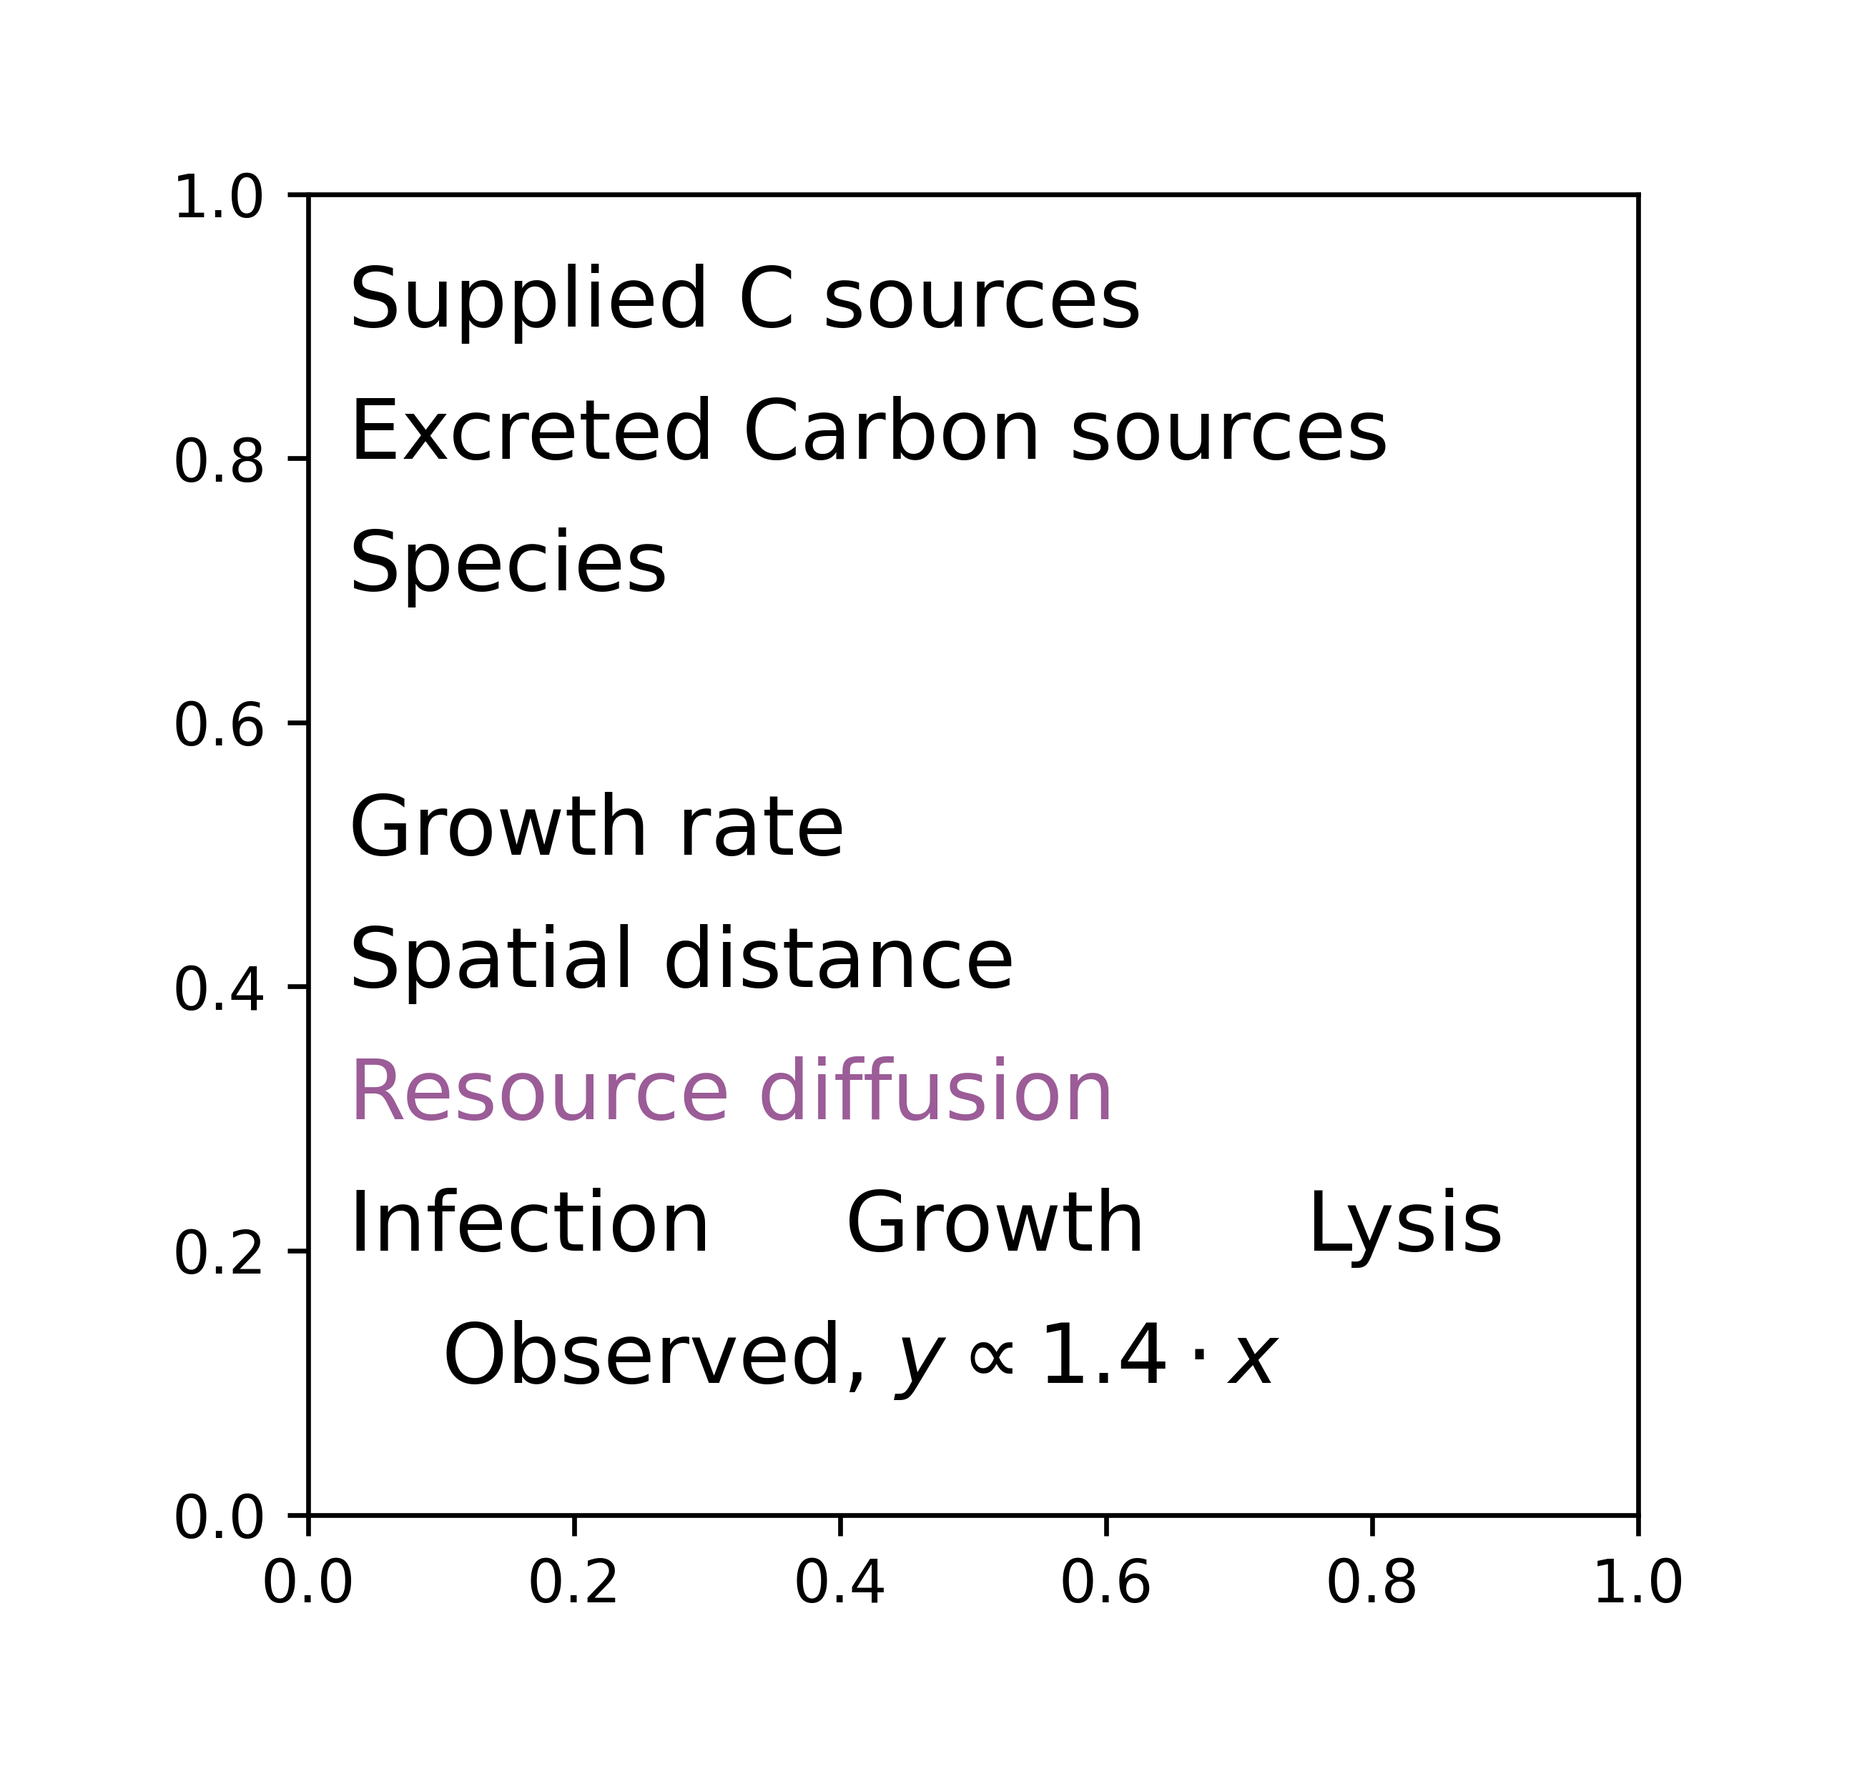
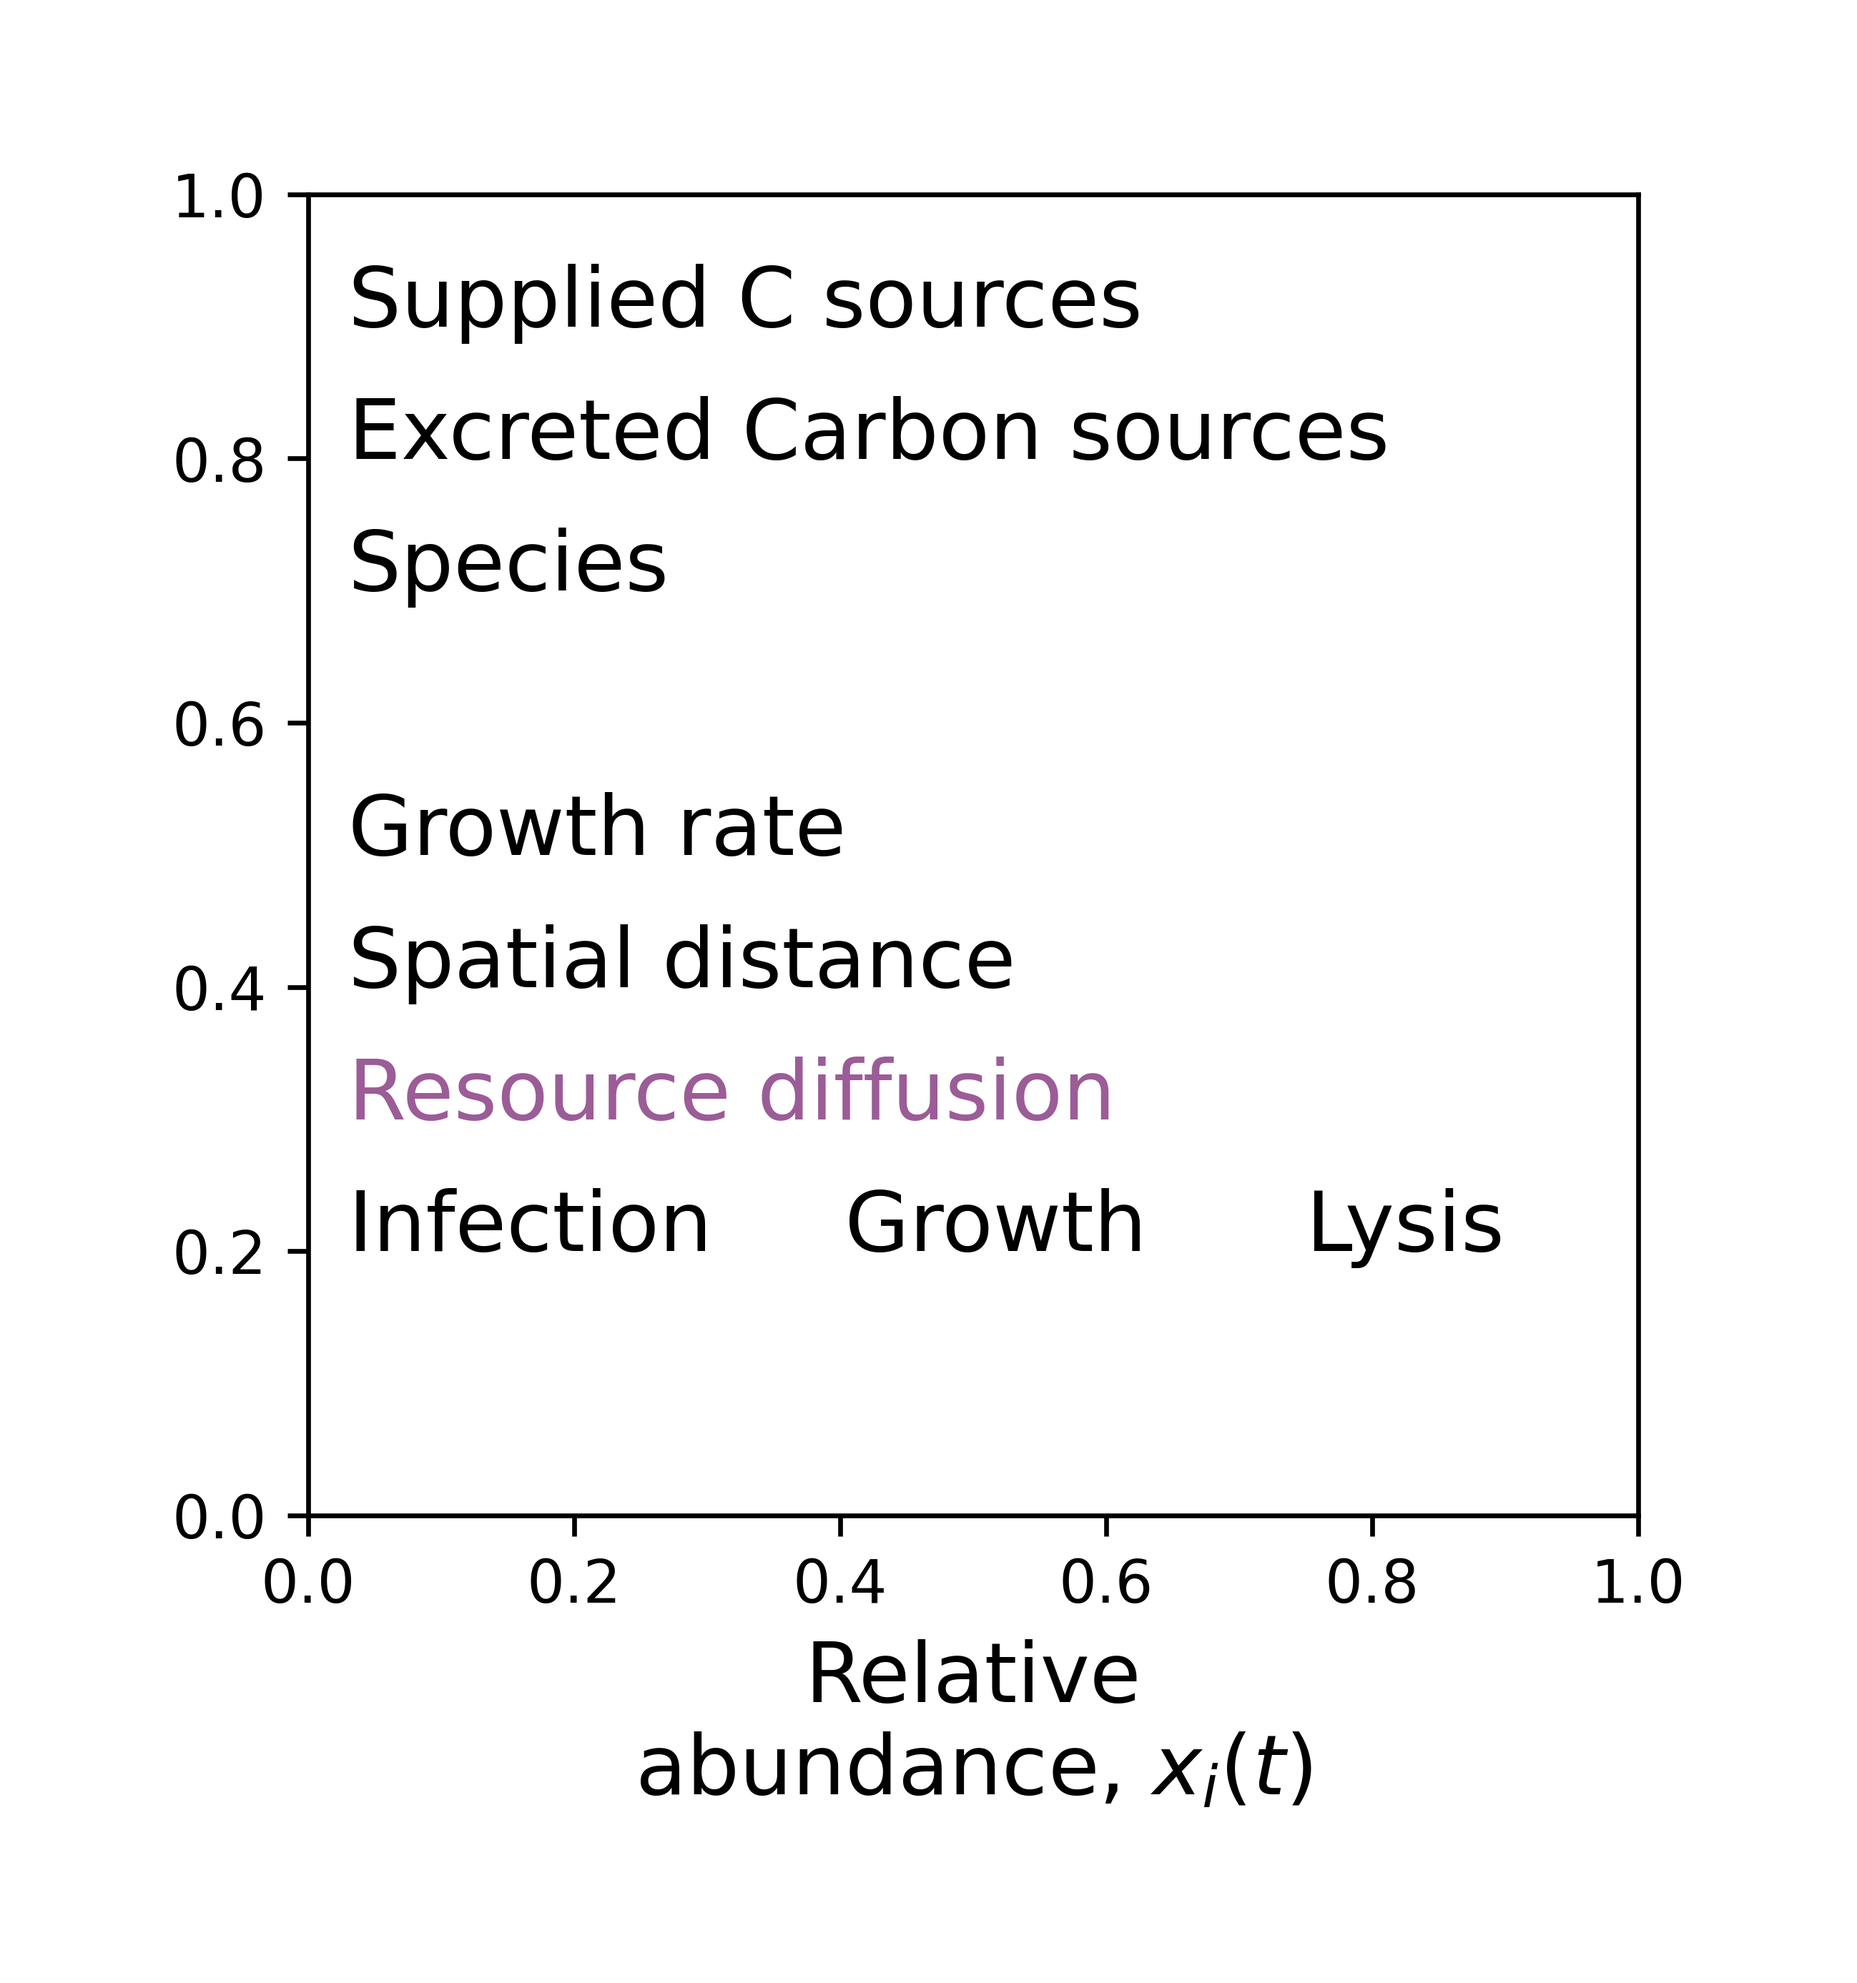
fig3 modify

diff --git a/scripts/plot_fig3_text.py b/scripts/plot_fig3_text.py
@@ -48,8 +48,12 @@ ax.text(0.03, 0.2, "Infection     Growth      Lysis ", fontsize=14, color='k')#,
 #ax.text(0.03, 0.1, "Slow (succinate)", fontsize=14, color='#EA573D')#, fontweight='bold')
 #ax.text(0.5, 0.1, "Fast (glucose)", fontsize=14, color='#F2B342')#, fontweight='bold')
 
-ax.text(0.1, 0.1, "Observed, " + r'$y \propto 1.4 \cdot x$', fontsize=14, color='k')#, fontweight='bold')
+#ax.text(0.1, 0.1, "Observed, " + r'$y \propto 1.4 \cdot x$', fontsize=14, color='k')#, fontweight='bold')
 
+#ax.text(0.1, 0.1, "Time, " + r'$t$', fontsize=14, color='k')#, fontweight='bold')
+#ax.text(0.1, 0.1, "Relative abundance, " + r'$x_{i}(t)$', fontsize=14, color='k')#, fontweight='bold')
+
+ax.set_xlabel("Relative\nabundance, " + r'$x_{i}(t)$', fontsize=14)
 
 
 fig.subplots_adjust(hspace=0.25, wspace=0.15)
